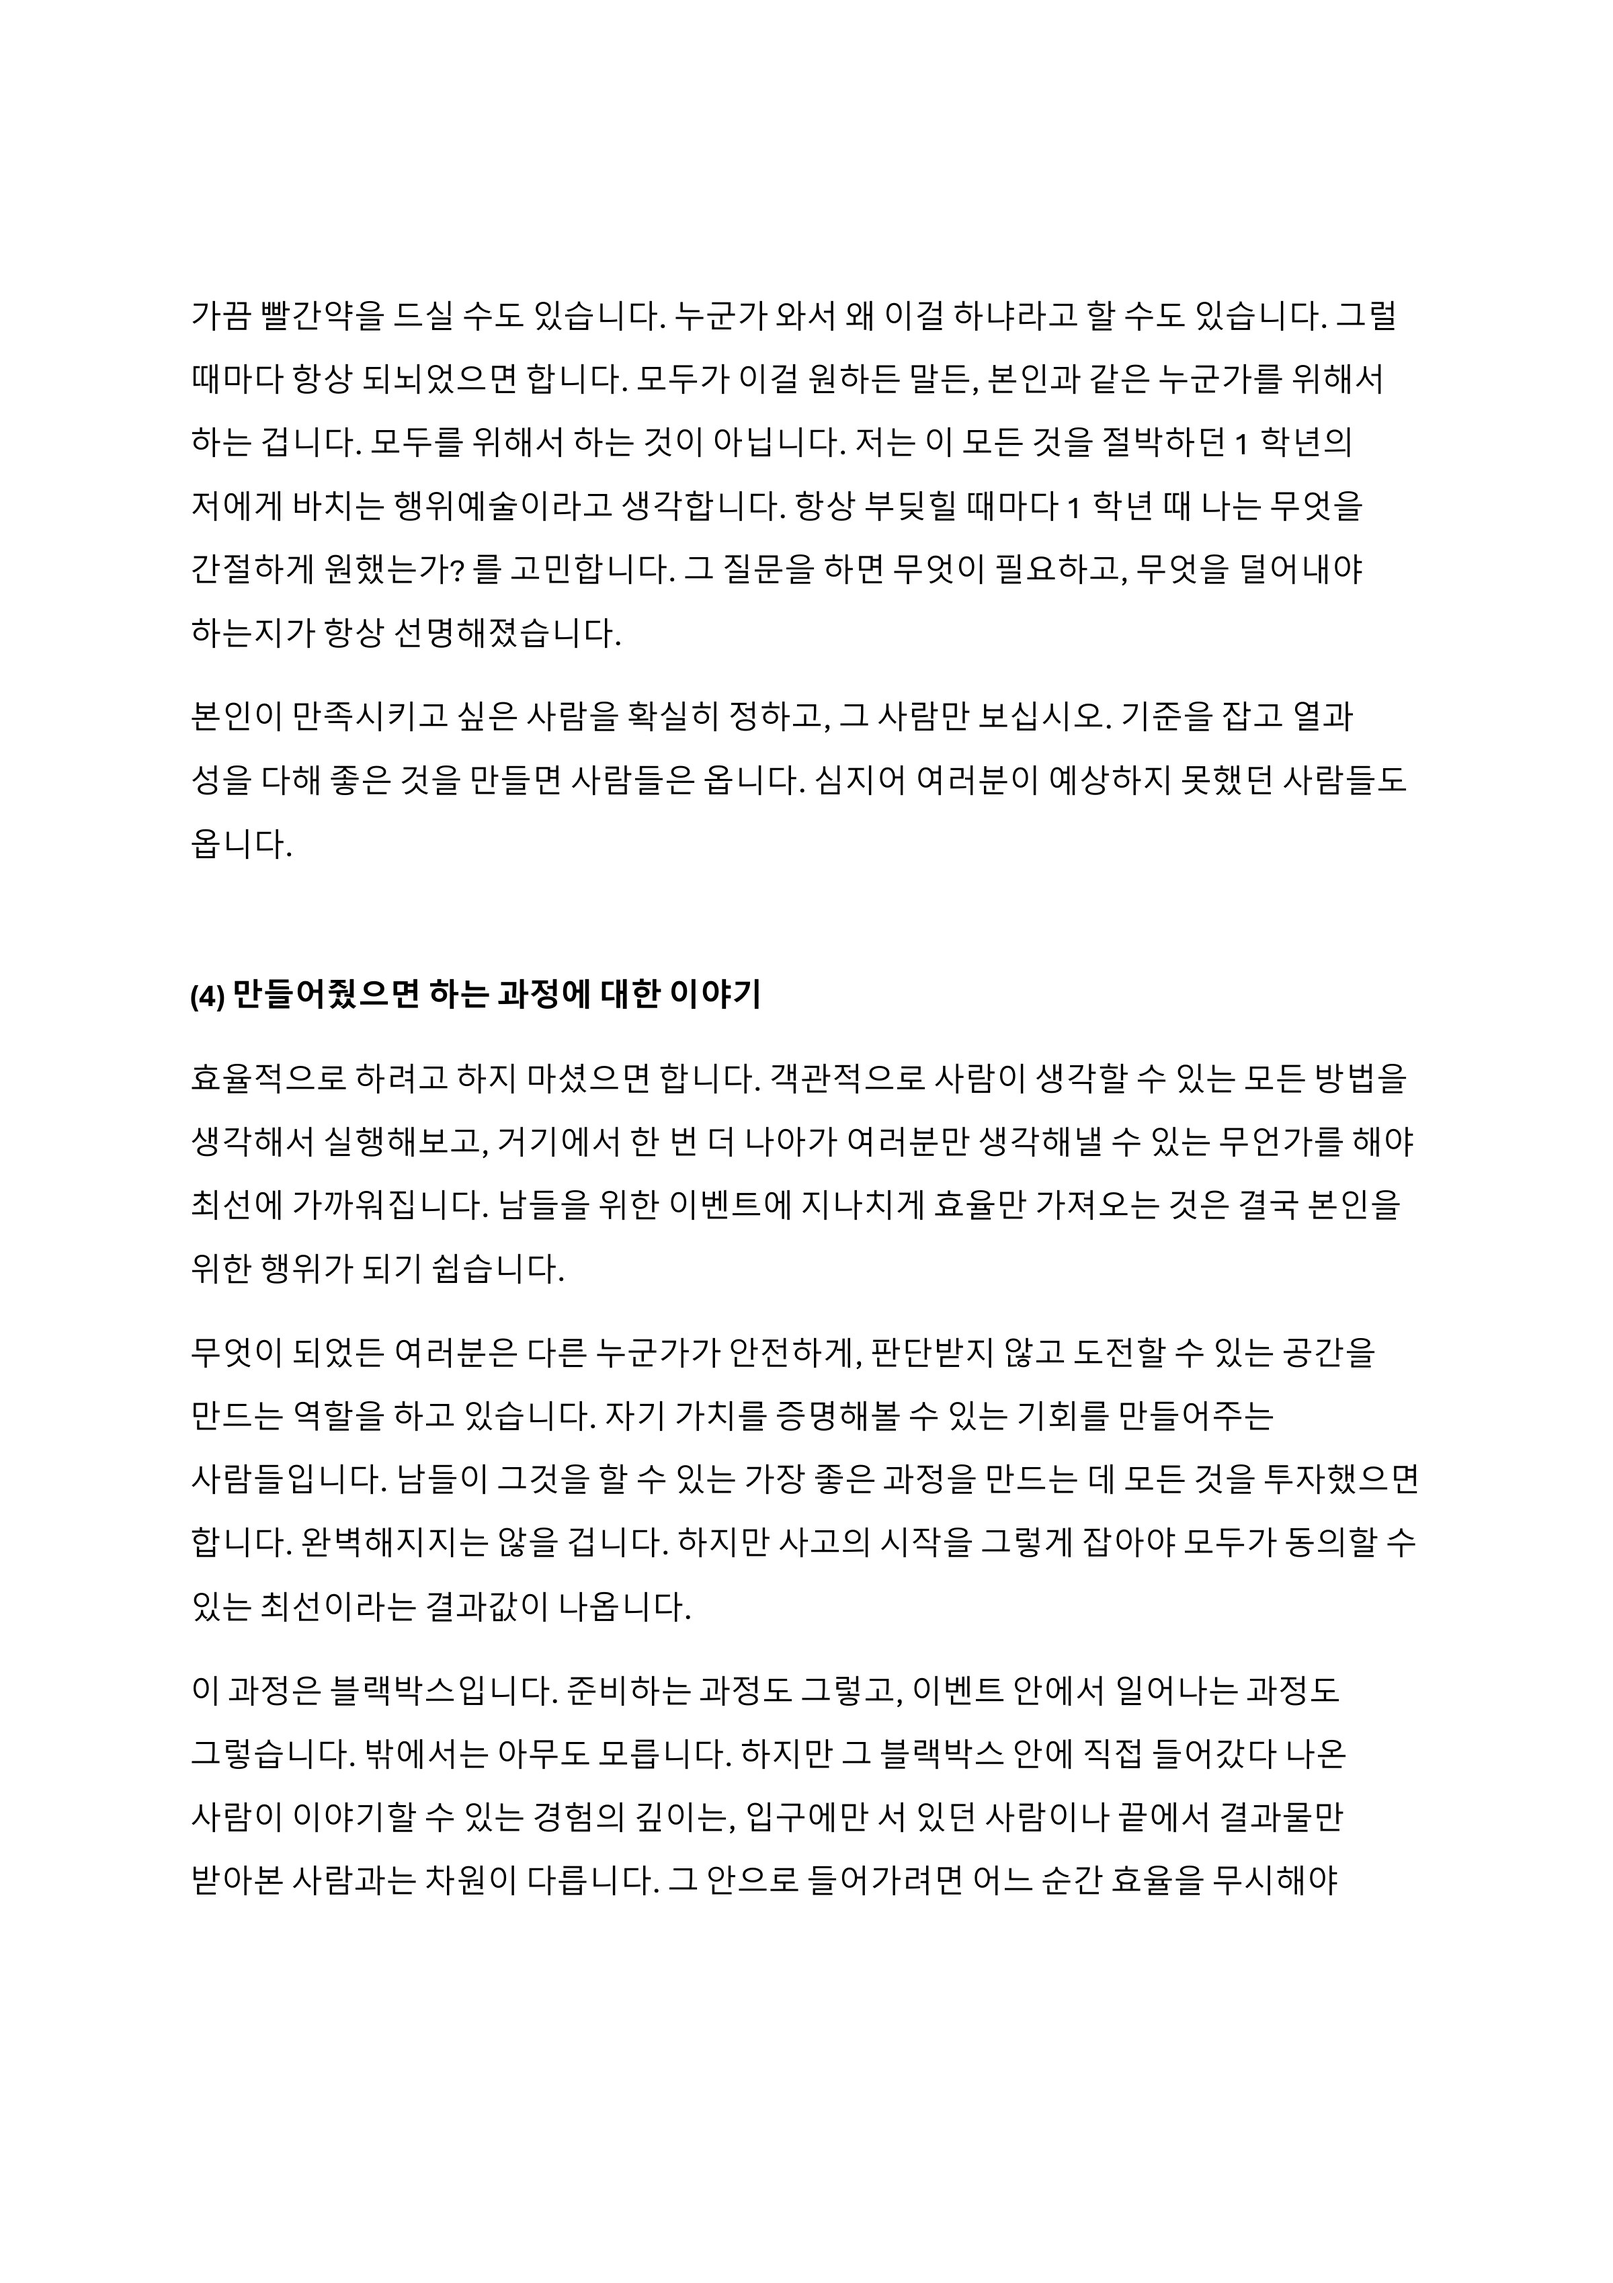
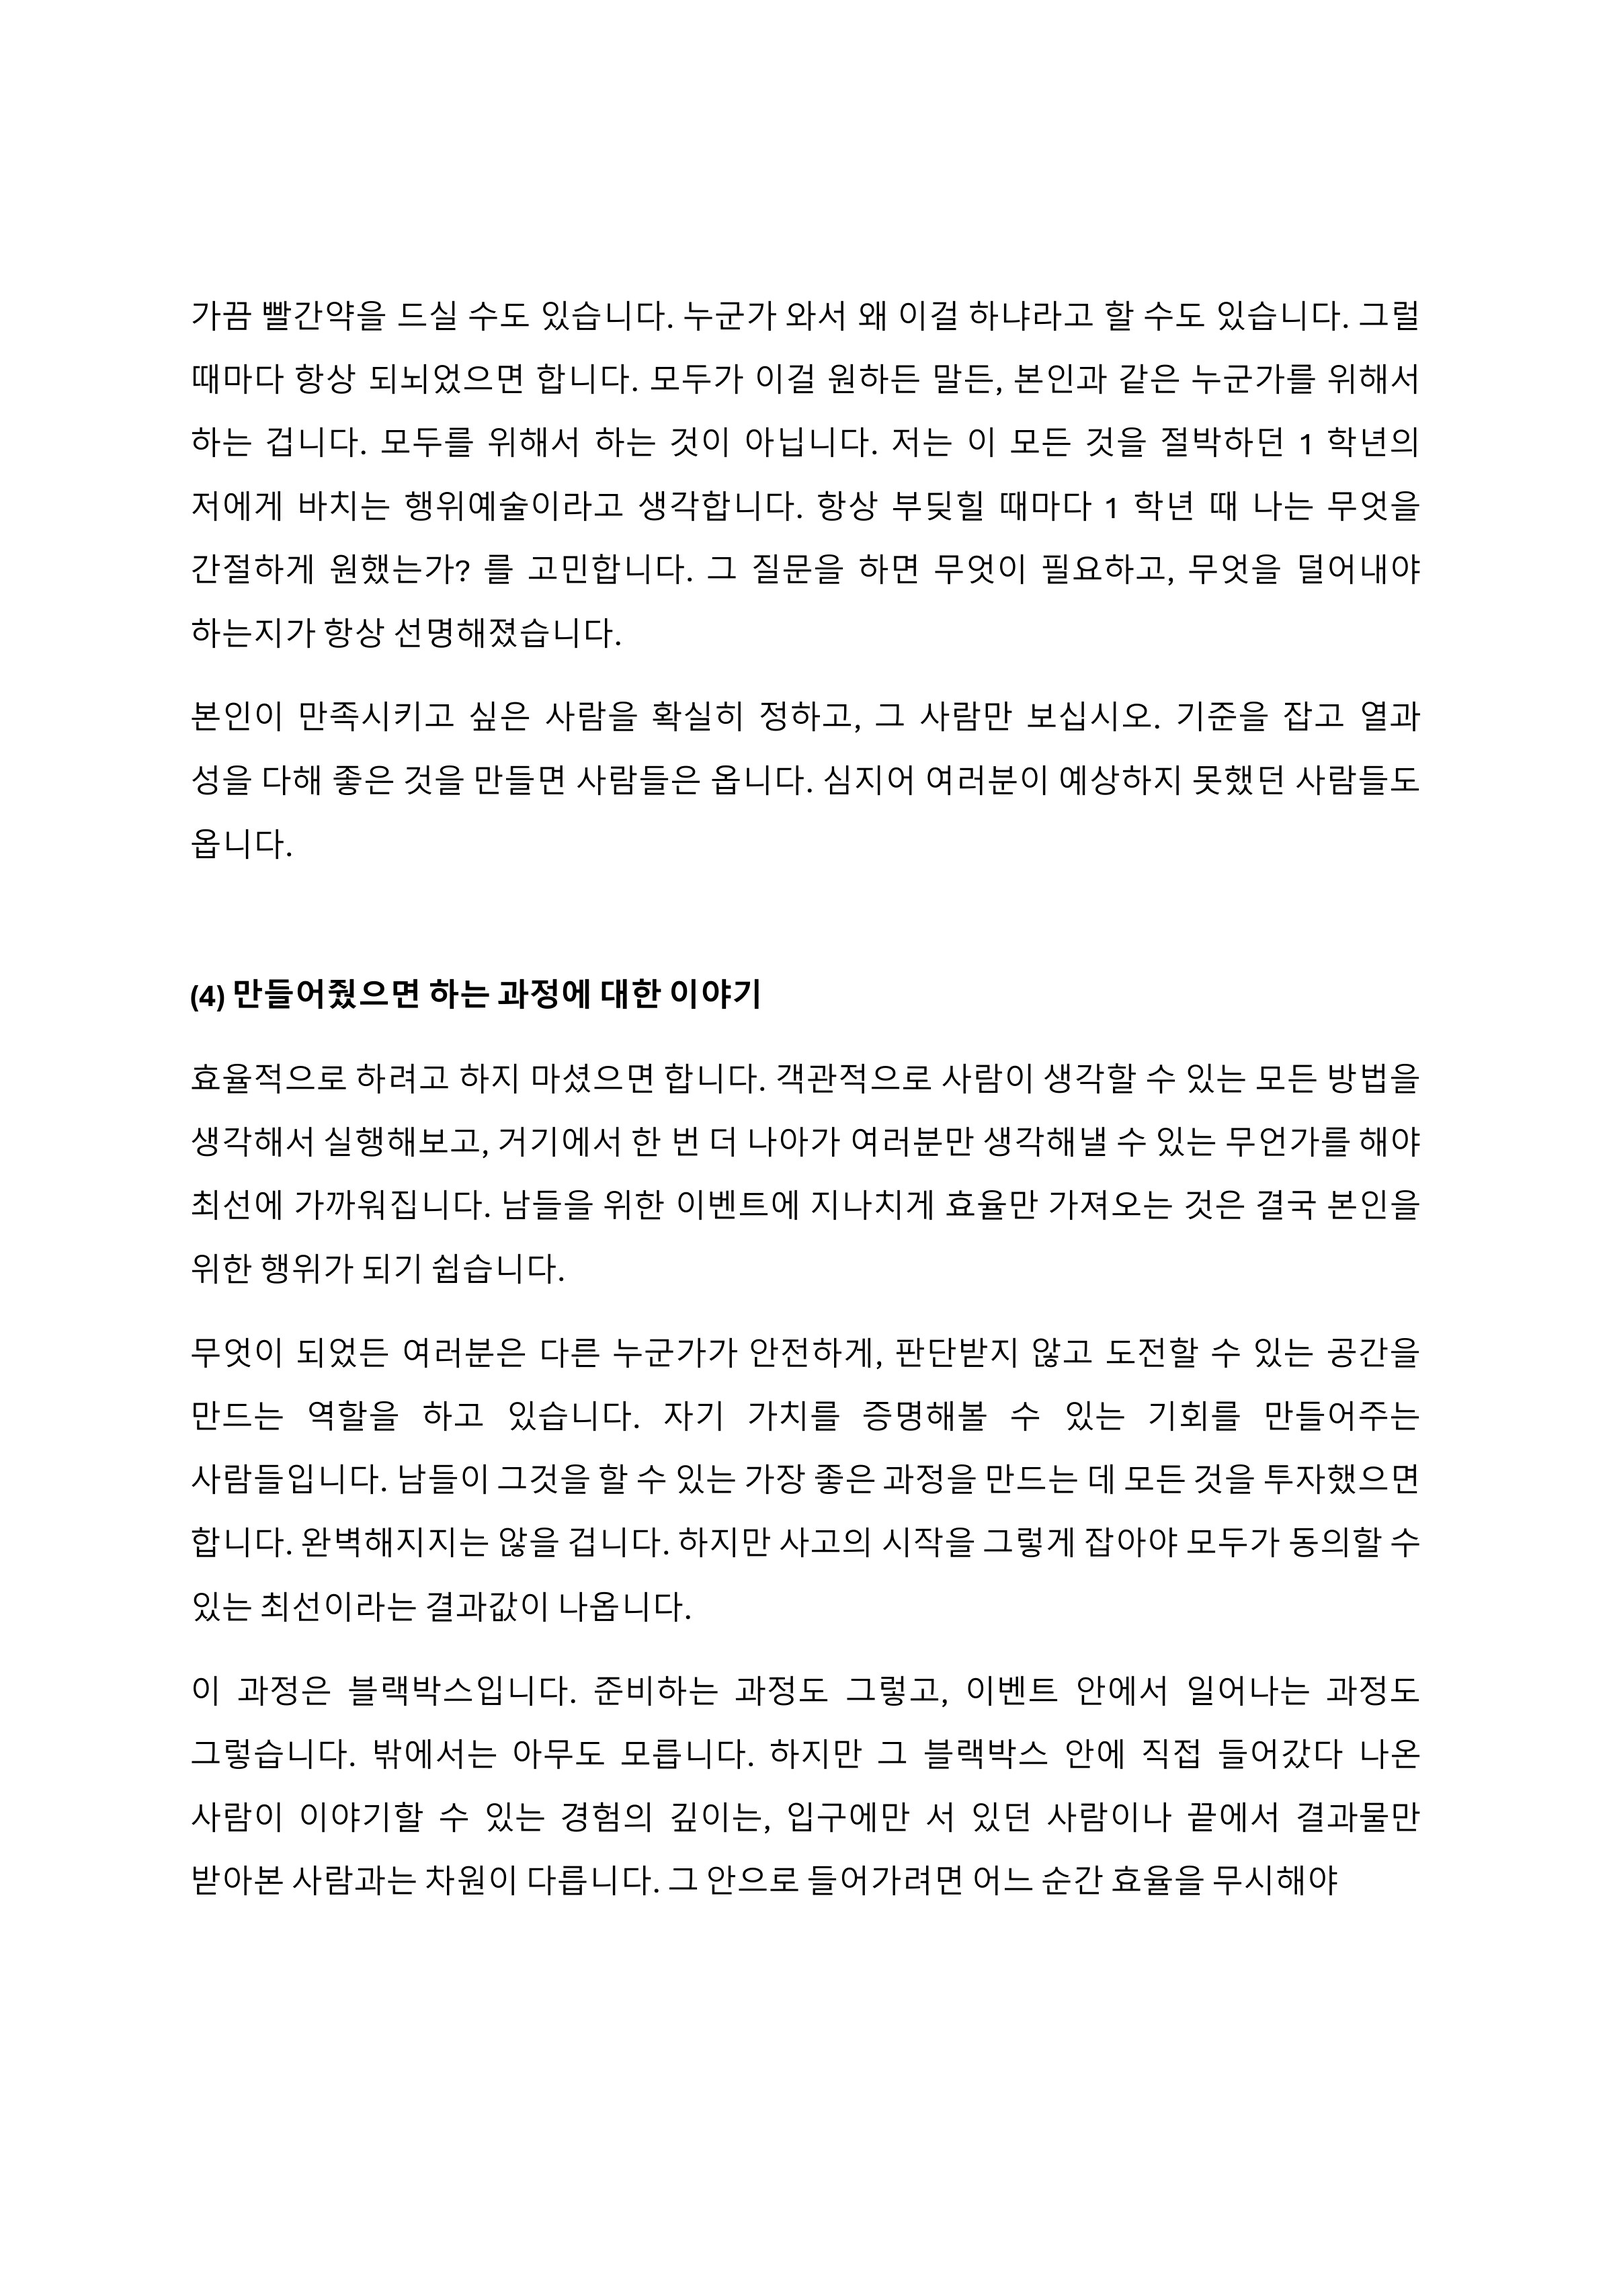
Manifesto: justified lines on the Korean pages, blurb under the title removed

diff --git a/components/naru/ManifestoViewer.tsx b/components/naru/ManifestoViewer.tsx
@@ -18,7 +18,7 @@ import { BODY, META } from "@/components/ui/typography";
 
 const PAGES = { ko: 6, en: 7 } as const;
 // 이미지를 다시 뽑으면 올립니다. 파일 이름이 같아 브라우저가 옛 쪽을 보여 주지 않게.
-const V = "20261118a"; // 2026-11-18 (사용자): 한국어 여섯 쪽을 새 매니페스토(메니페스토.pdf)로 교체.
+const V = "20261118b"; // 2026-11-18 (사용자): 한국어 여섯 쪽을 새 매니페스토(메니페스토.pdf)로 교체.
 // 뽑은 이미지의 크기. 2026-10-25 (사용자: "너무 흐린데"): 1400px 한 벌을 next/image가 다시 줄이고 눌러 글자가 흐렸습니다.
 // 넘기는 줄은 1000px(-s-), 전체 화면은 2400px 원본을 최적화 없이(unoptimized) 그대로 씁니다.
 const SMALL = { w: 1000, h: 1416 };

diff --git a/components/naru/redesign/copy.ts b/components/naru/redesign/copy.ts
@@ -74,5 +74,4 @@ export const copy = {
   milestones: ko("세 곳 모두 경쟁이 치열해요. 학점, 인턴, 졸업, 오퍼 같은 눈앞의 칸부터 채우느라\n'나는 어디로 갈 수 있지?'를 물어볼 시간이 없는 거예요.", naru.join.milestones),
   closingStatement: ko("절박하지 않아도\n시작할 수 있도록.", naru.join.closingStatement),
   closingBody: kos(["문 두드리는 법은 보통 절박해진 다음에야 배워요.\n연습도 안 시켜 놓고 왜 못 하냐고 물을 수는 없잖아요. 그래서 그 연습을 미리 열어요."], naru.join.closingBody),
-  manifestoBody: ko("왜 모였는지, 그리고 무엇이 바뀌어도\n그대로 둘 게 뭔지 적어 둔 문서예요.", naru.join.manifesto.body),
 };

diff --git a/components/naru/redesign/NaruHome.tsx b/components/naru/redesign/NaruHome.tsx
@@ -235,7 +235,6 @@ export default function NaruHome() {
             <div className="rounded-[22px] px-6 py-10 ring-1 ring-[#E3E0D8] sm:px-10 lg:grid lg:grid-cols-12 lg:gap-12 lg:px-12 lg:py-12">
               <div className="lg:col-span-5">
                 <h2 id="manifesto-title" className={`${TITLE} ${INK}`}>{t(naru.join.manifesto.label)}</h2>
-                <p className={`mt-3 break-keep ${BODY} ${SOFT}`}><Lines text={t(C.manifestoBody)} /></p>
               </div>
               <div className="mt-8 lg:col-span-7 lg:mt-0">
                 <ManifestoViewer locale={locale === "en" ? "en" : "ko"} t={t} />
